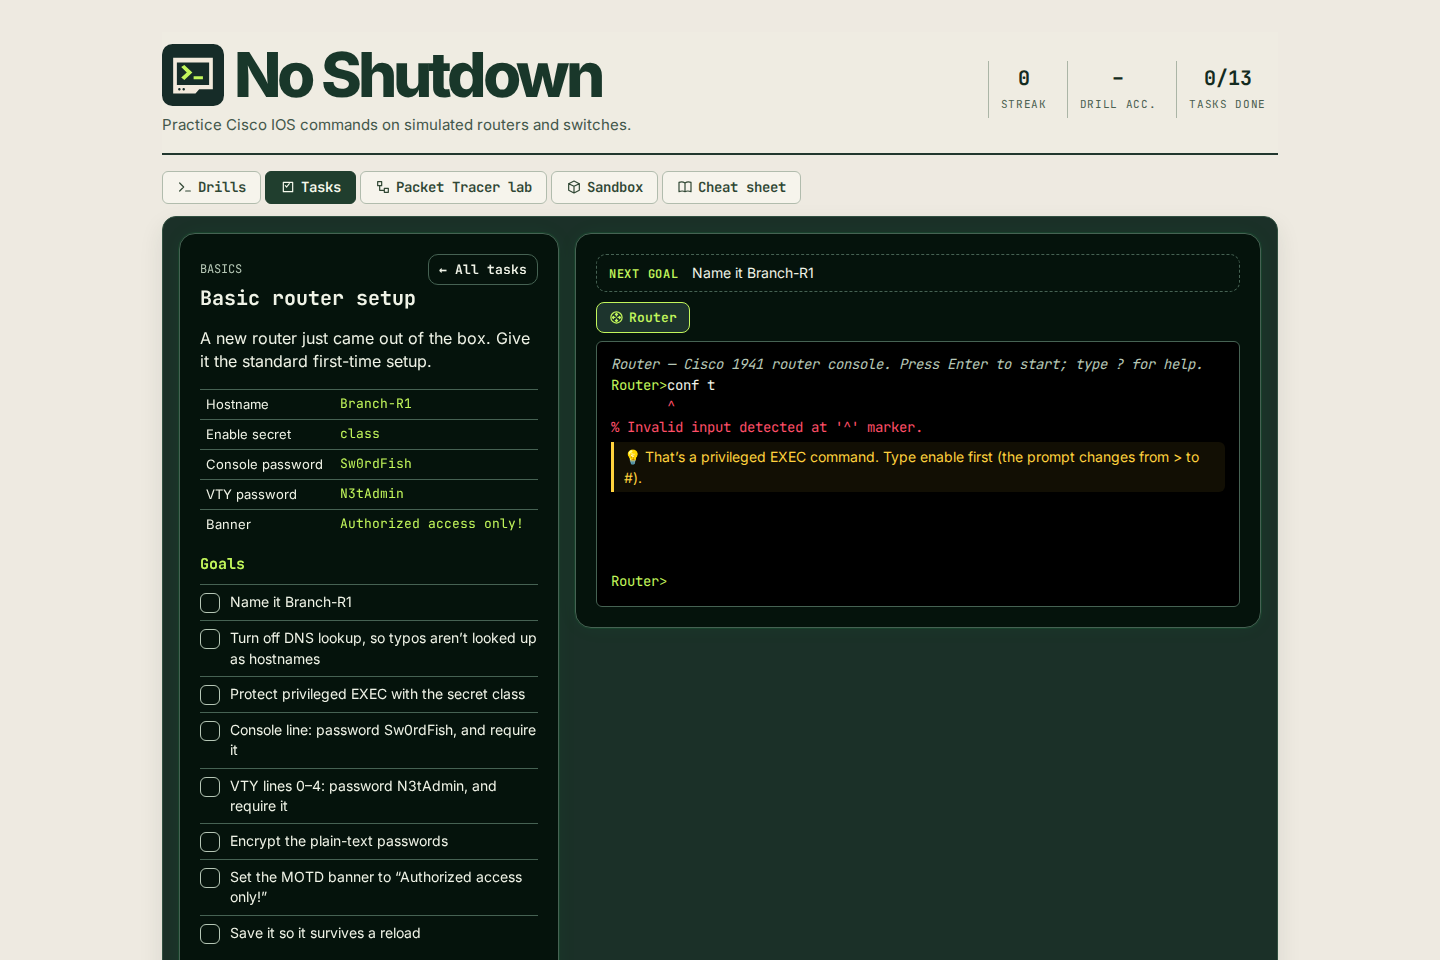
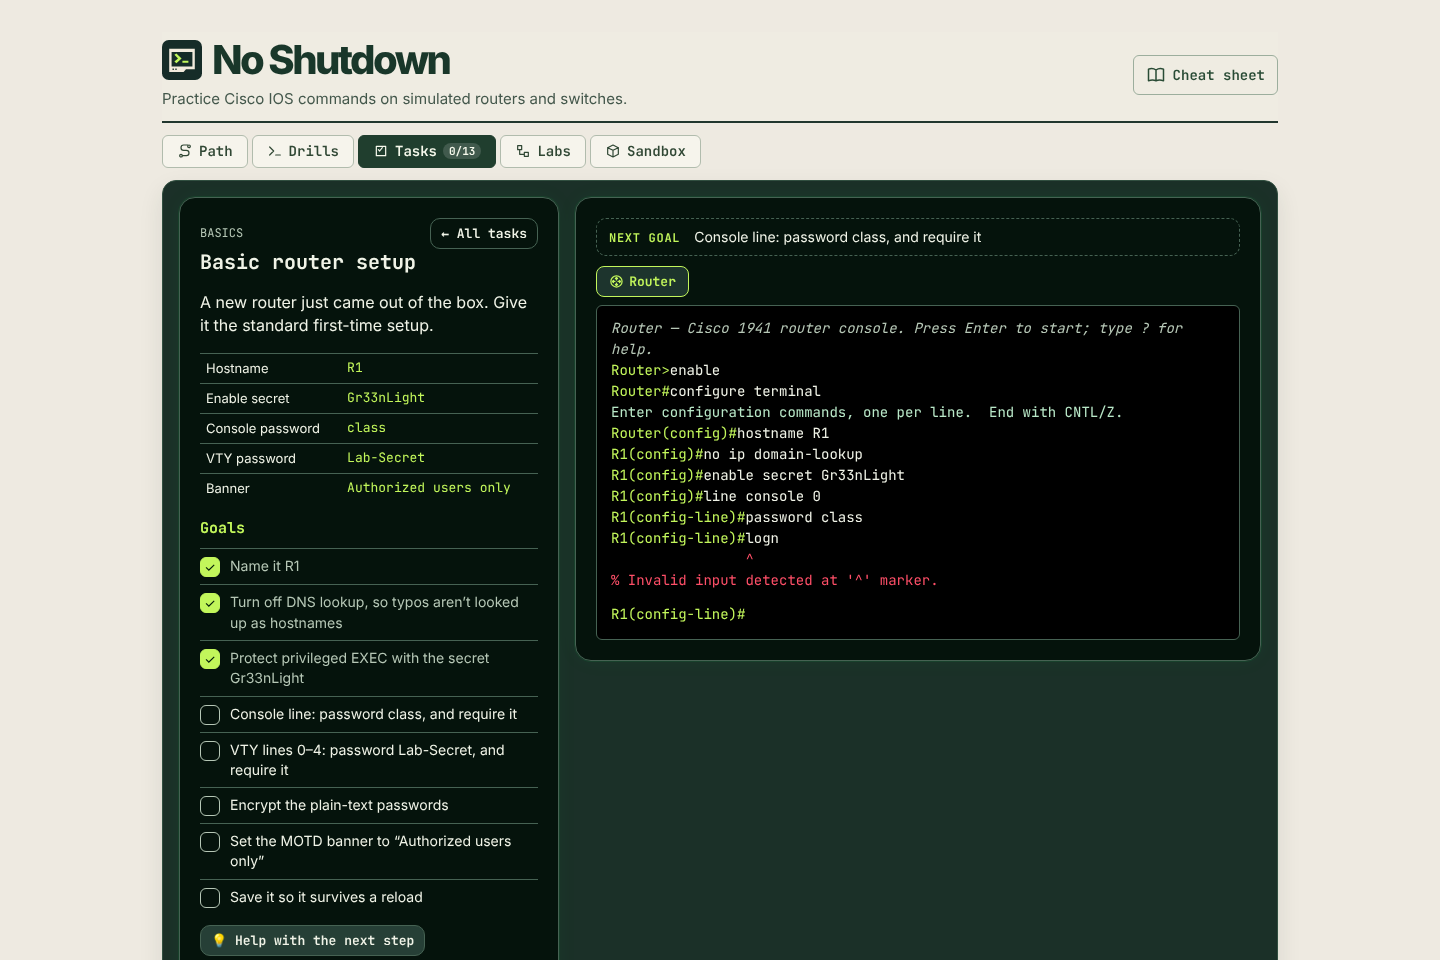
Refresh the README screenshots for the new layout and learning path

Changed region(s): [[0.0938, 0.0312, 0.9062, 1.0], [0.75, 0.0625, 0.875, 0.125], [0.6875, 0.0938, 0.7188, 0.125]]

diff --git a/README.md b/README.md
@@ -35,6 +35,11 @@ A fresh visit opens on the **Path**: eight units in the order you'd learn them o
 - **Checkpoints.** Once a unit's drills are done, its checkpoint task puts the commands together on a simulated device (Basic router setup after Passwords, Router interfaces and Switch management after Interfaces, and so on). The path ticks it off when the task is finished.
 - On a phone, a lesson or session hides the header and tabs so the command box sits near the top of the screen. The Drills tab is still free practice on any topic.
 
+<p align="center">
+  <img src="docs/path.png" alt="The learning path: eight units with signal bars and a Start button" width="560">
+  <img src="docs/phone-path.png" alt="Phone: the learning path with the bottom tab bar" width="200">
+</p>
+
 ### Drills
 One job at a time: the drill names a task ("Give this interface the address 192.168.101.1 255.255.255.0") and shows the prompt you're at, and you type the command.
 
